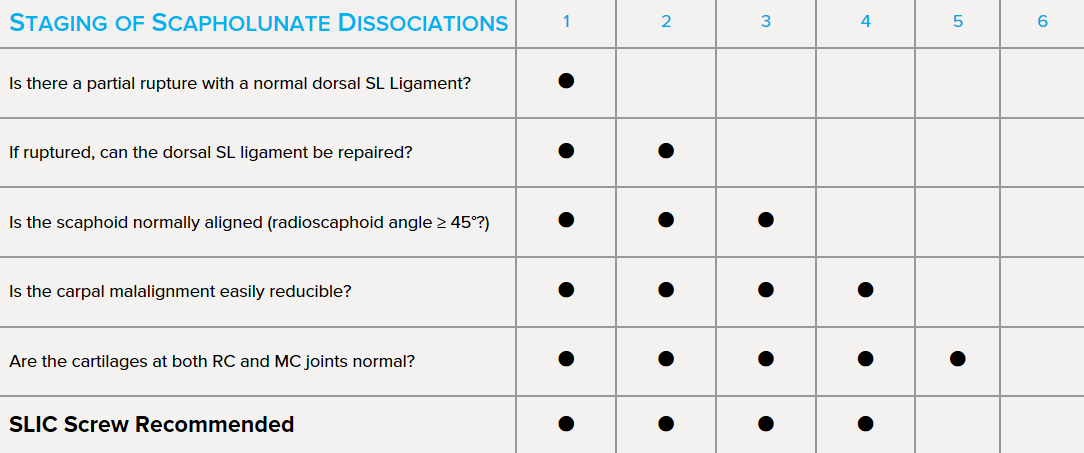
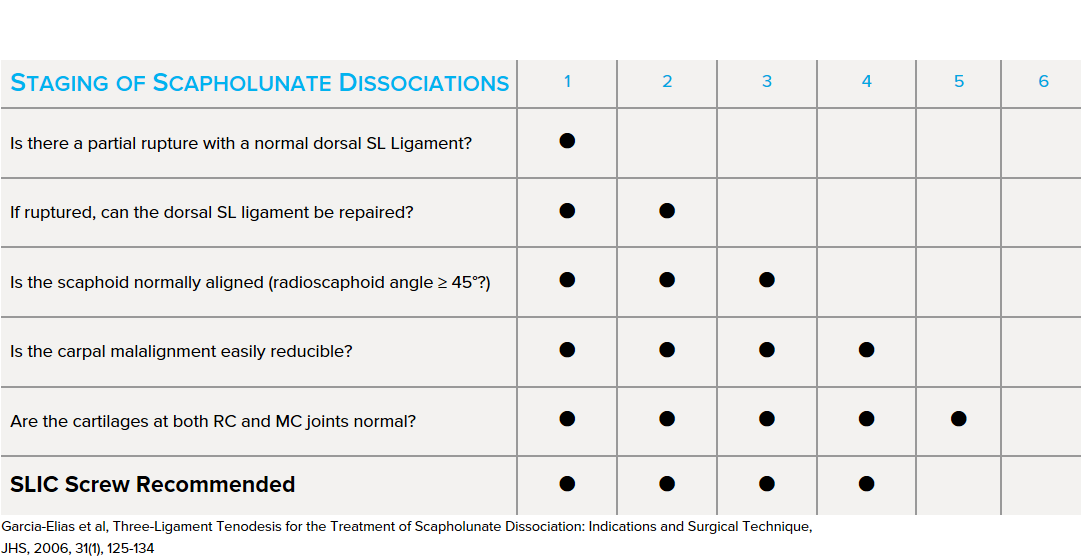
Testing infinite scroll + new slic table image.

diff --git a/www/slicIndex.html b/www/slicIndex.html
@@ -519,8 +519,8 @@ body div {
 
 #treatmentImg
 {
-    max-height:471px;
-    max-width:1102px;
+    max-height:559px;
+    max-width:1081px;
     height:auto;
 }
 aside {
@@ -3266,8 +3266,6 @@ nav .inner div {
 <div id = "treatmentTable">
     <img id="treatmentImg" src="assets/images/SLIC_TreatmentAlgorithm_TableCapture.png"/>
 </div>
-<p class="Basic-Paragraph bottom-margin"><span class="CharOverride-20">Garcia-Elias et al, Three-Ligament Tenodesis for the Treatment of Scapholunate Dissociation: Indications and Surgical Technique, <br/>JHS, 2006, 31(1), 125-134</span>
-</p>
 <div name="ta-s1"  id="ta-s1" class="Full-Text-Frame">
     <p class="Basic-Paragraph bottom-margin"><span class="content-page-author"><br/><br/></span><span class="content-page-author">Stage 1: </span><span
             class="CharOverride-7">Partial Scapholunate Ligament injury</span></p>
@@ -5413,7 +5411,7 @@ References
         currentImage = arrImages[i];
         src = currentImage.src;
 
-        if(src.indexOf("st1-04Chart-hi.jpg") === -1 && src.indexOf('.svg') === -1 && src.indexOf('magnifyingGlassOut.png') === -1 && src.indexOf("SLIC_TreatmentAlgorithm_TableCapture.png") === -1)
+        if(src.indexOf("st1-04Chart-hi.jpg") === -1 && src.indexOf('.svg') === -1 && src.indexOf('magnifyingGlassOut.png') === -1)
         {
             {
                 var span = document.createElement("span");

diff --git a/views/books/slic/content/treatment/index.html b/views/books/slic/content/treatment/index.html
@@ -182,8 +182,6 @@
 <div id = "treatmentTable">
     <img id="treatmentImg" src="assets/images/SLIC_TreatmentAlgorithm_TableCapture.png"/>
 </div>
-<p class="Basic-Paragraph bottom-margin"><span class="CharOverride-20">Garcia-Elias et al, Three-Ligament Tenodesis for the Treatment of Scapholunate Dissociation: Indications and Surgical Technique, <br/>JHS, 2006, 31(1), 125-134</span>
-</p>
 <div name="ta-s1"  id="ta-s1" class="Full-Text-Frame">
     <p class="Basic-Paragraph bottom-margin"><span class="content-page-author"><br/><br/></span><span class="content-page-author">Stage 1: </span><span
             class="CharOverride-7">Partial Scapholunate Ligament injury</span></p>

diff --git a/www/assets/javascripts/image.js b/www/assets/javascripts/image.js
@@ -10,7 +10,7 @@
         currentImage = arrImages[i];
         src = currentImage.src;
 
-        if(src.indexOf("st1-04Chart-hi.jpg") === -1 && src.indexOf('.svg') === -1 && src.indexOf('magnifyingGlassOut.png') === -1 && src.indexOf("SLIC_TreatmentAlgorithm_TableCapture.png") === -1)
+        if(src.indexOf("st1-04Chart-hi.jpg") === -1 && src.indexOf('.svg') === -1 && src.indexOf('magnifyingGlassOut.png') === -1)
         {
             {
                 var span = document.createElement("span");

diff --git a/views/books/slic/content/title/index.html b/views/books/slic/content/title/index.html
@@ -35,7 +35,6 @@ The Acumed Scapholunate Intercarpal Screw (SLIC Screw) System has a cannulated c
                 </p>
             </div>
 
-        </div>
         <div class="asideBottom">
         <div class="aside">
 
@@ -106,4 +105,5 @@ The Acumed Scapholunate Intercarpal Screw (SLIC Screw) System has a cannulated c
             </div>
         </div>
     </div>
+</div>
     <!--#include virtual="../../../../common/templates/footer.html" -->

diff --git a/www/index.css b/www/index.css
@@ -439,8 +439,8 @@ body div {
 
 #treatmentImg
 {
-    max-height:471px;
-    max-width:1102px;
+    max-height:559px;
+    max-width:1081px;
     height:auto;
 }
 aside {
